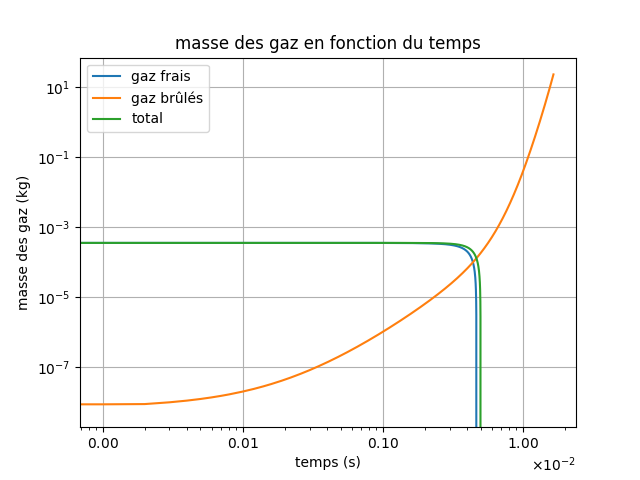
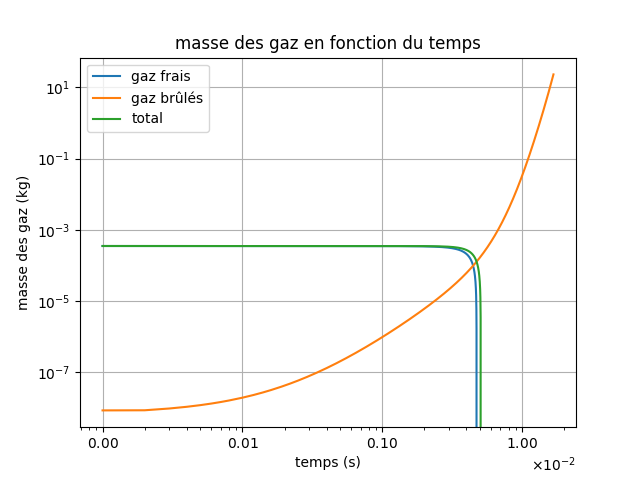
rho masse ok

diff --git a/combustion/combustion.py b/combustion/combustion.py
@@ -10,8 +10,8 @@ t = 0
 
 # conditions initiales
 P0 = 101325        # pression initiale des gaz frais (Pa)
-T0 = 298.15         # température initiale des gaz frais
-P1 = 101325*19.3      # pression avant la combustion (Pa)
+T0 = 300         # température initiale des gaz frais
+P1 = 19.3*101325     # pression avant la combustion (Pa)
 T1 = 572.47          # température avant la combustion (K)
 R0 = 0.001          # rayon initiale de la boule allumée (m)
 R_p = 0.05          # rayon du piston (m)
@@ -55,13 +55,17 @@ print("sL0 (m/s) dans la thèse= ", sL0_these)
 # Gaz frais : air + c8h18 + n2 à 2000K
 rho_c8h18 = 13.3
 rho_air = 0.1741
-rho_n2 = 0.25
+rho_n2 = 0.259
 y_c8h18 = 0.0625
 y_air = 0.9375
 y_n2 = 0.71512
 
-rho_gf = rho_c8h18*y_c8h18 + rho_air*y_air + rho_n2*y_n2
-print("rho_gf calculé = ", rho_gf)
+M_gf = 0.03041748131
+r_gf = 8.314 / M_gf
+rho_gf = P1 / (r_gf * T1)
+print("masse volumique des gaz frais (kg/m^3) = ", rho_gf)        # masse volumique des gaz frais à T1 et P1
+
+#rho_gf = rho_c8h18*y_c8h18 + rho_air*y_air + rho_n2*y_n2
 
 # Gaz brûlés : h2o + co2 + n2 à 2000 K
 rho_h2o = 2.09
@@ -71,14 +75,18 @@ y_h2o = 0.0885
 y_co2 = 0.1923
 y_n2 = 0.7192
 
-r_mel = 8.314 / 0.03041748131
-r_bru = 290.7628415
-rho_gb = rho_h2o*y_h2o + rho_co2*y_co2 + rho_n2*y_n2
-print("rho_gb calculé = ", rho_gb)
+M_gb = 0.02859               # masse molaire du mélange des gaz brûlés
+r_gb = 8.314 / M_gb           # constante des gaz brûlés 
+rho_gb = P1 / (r_gb * T1)
+print("masse volumique des gaz brûlés (kg/m^3) = ", rho_gb)        # masse volumique des gaz brûlés à T1 et P1
+
+#rho_gb = rho_h2o*y_h2o + rho_co2*y_co2 + rho_n2*y_n2
 #rho_gf = 1.393919518
 #rho_gb = 1.7803e1
 
+
 # Variables en t 
+i=0                      # compteur d'itérations
 sL0 = sL0_livre          # à changer si on veut celle du LIVRE ou de la THESE
 sL_t = sL0               # vitesse de flamme à l'instant t
 T_gf_t = T1              # température des gaz frais (avant la combustion)
@@ -86,39 +94,50 @@ T_gb_t = 2839.52         # température de fin de combustion (calculée pour iso
 P_t = P1                 # pression à l'instant t
 r_t = R0                 # m rayon initial de la boule
 vb_t = 4/3*np.pi*r_t**3  # m^3 volume de la boule
-QF = 44.7e6              # J/kg QLHV pouvoir calorifique du carburant
-i=0                 
 masse_gb = vb_t*rho_gb              # masse des gaz brûlés 
-masse_gf = (V -vb_t)*rho_gf        # masse des gaz frais avec comme volume le cylindre du piston moins la boule
+masse_gf = (V - vb_t)*rho_gf        # masse des gaz frais avec comme volume le cylindre du piston moins la boule
 masse_tot = masse_gb + masse_gf                 # masse totale des gaz
-print("masse totale (kg)= ", masse_tot)
-print("masse gaz frais (kg)= ", masse_gf)
 print("masse gaz brûlés (kg)= ", masse_gb)
+print("masse gaz frais (kg)= ", masse_gf)
+print("masse totale (kg)= ", masse_tot)
+QF = 44.7e6              # J/kg QLHV pouvoir calorifique du carburant
+
 
 # variables à stocker
-t_tot = [0]
-sL_tot = [sL_t]
-T_gf_tot = [T1]
-T_gb_tot = [2839.52]
-P_tot = [P1]
-r_tot = [R0]  
-rho_gb_tot = [rho_gb]
-rho_gf_tot = [rho_gf]
-masse_gb_tot = [masse_gb]
-masse_total = [masse_tot]
-masse_gf_tot = [masse_gf]
+#t_tot = [0]
+#sL_tot = [sL_t]
+#T_gf_tot = [T_gf_t]
+#T_gb_tot = [T_gb_t]
+#P_tot = [P_t]
+#r_tot = [r_t]  
+#rho_gb_tot = [rho_gb]
+#rho_gf_tot = [rho_gf]
+#masse_gb_tot = [masse_gb]
+#masse_total = [masse_tot]
+#masse_gf_tot = [masse_gf]
 
-while r_t < 0.9*R_p :
+t_tot = []
+sL_tot = []
+T_gf_tot = []
+T_gb_tot = []
+P_tot = []
+r_tot = []  
+rho_gb_tot = []
+rho_gf_tot = []
+masse_gb_tot = []
+masse_total = []
+masse_gf_tot = []
+while r_t < 0.9*R_p :                   # mmasse_tot > 0
     T_gb_dt = 2839.52 + (1+1091.5625/1423.522842) * (T_gf_t - T0)
     P_dt = P_t + dt * (gamma-1)/V * QF * (4*np.pi * r_t**2 * rho_gf * sL_t*YF0)
-    r_dt = r_t + dt * (rho_gf/rho_gb) * sL0*(T_gf_t/T0)**alpha * (P_t/P0)**beta
-    #r_dt = r_t + dt * (rho_gf/rho_b) * sL_t
+    #r_dt = r_t + dt * (rho_gf/rho_gb) * sL0*(T_gf_t/T0)**alpha * (P_t/P0)**beta
+    r_dt = r_t + dt * (rho_gf/rho_gb) * sL_t
     sL_dt = sL0 * (T_gf_t/T0)**alpha * (P_t/P0)**beta
     T_gf_dt = T_gf_t * ((R_p ** 3 - r_t ** 3) / (R_p ** 3 - r_dt ** 3)) ** (gamma - 1)
     vb_t = 4/3*np.pi*r_t**3
 
-    rho_gf = P_dt / (r_mel * T_gf_dt)
-    rho_gb = P_dt / (r_bru * T_gb_dt)
+    rho_gf = P_dt / (r_gf * T_gf_dt)
+    rho_gb = P_dt / (r_gb * T_gb_dt)
     masse_gb = vb_t*rho_gb
     masse_gf = (V -vb_t)*rho_gf     
     #masse_gf  = rho_gf * sL_t  * 4*np.pi*r_t**2
@@ -150,6 +169,20 @@ while r_t < 0.9*R_p :
 print('temps de combustion : ' + str(t))
 print('itérations : ' + str(i))
 print('vitesse de flamme :' + str(sL_tot[-1]))
+
+
+# calcul angle nécessaire à la combustion
+
+N_ralenti = 1200 #tr/min
+N_nominal = 12000 #tr/min
+
+angle_ralenti = 1200 / 60 * t * 360 #en °
+angle_nominal = 12000 / 60 * t * 360 #en °
+
+print('Angle nécessaire à la combustion (ralenti) : ' + str(angle_ralenti))
+print('Angle nécessaire à la combustion (nominal) : ' + str(angle_nominal))
+
+
 # Tracé des courbes
 plt.figure(1)
 plt.loglog(t_tot, P_tot)
@@ -223,18 +256,6 @@ plt.ylabel('vitesse de flamme (m/s)')
 plt.title('vitesse de flamme en fonction du temps')
 plt.grid()
 plt.savefig('vitesse_flamme.png')
-
-
-# calcul angle nécessaire à la combustion
-
-N_ralenti = 1200 #tr/min
-N_nominal = 12000 #tr/min
-
-angle_ralenti = 1200 / 60 * t * 360 #en °
-angle_nominal = 12000 / 60 * t * 360 #en °
-
-print('Angle nécessaire à la combustion (ralenti) : ' + str(angle_ralenti))
-print('Angle nécessaire à la combustion (nominal) : ' + str(angle_nominal))
 
 reponse = input("Afficher les graphes ? (y/n) : ").strip().lower()
 

diff --git a/combustion/test.py b/combustion/test.py
@@ -1,0 +1,3 @@
+import matplotlib.pyplot as plt
+plt.plot([1, 2, 3], [4, 5, 6])
+plt.show()
